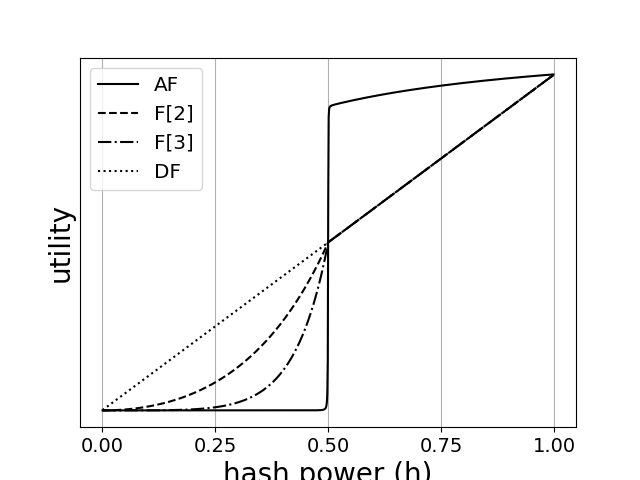
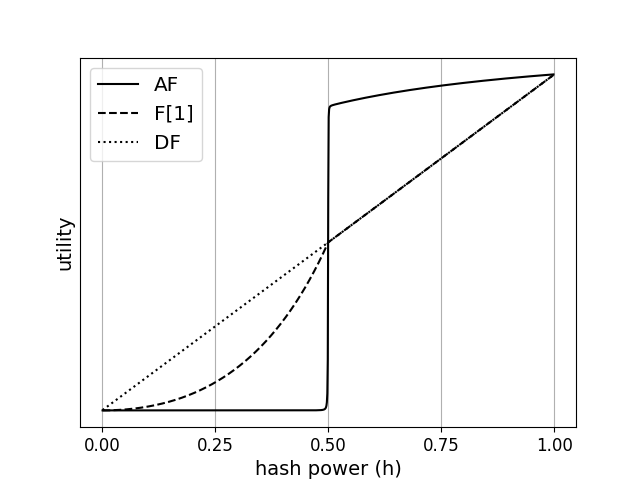
sec 4

diff --git a/AbstractDoc/WWW/dec_payoff.tex b/AbstractDoc/WWW/dec_payoff.tex
@@ -480,50 +480,117 @@ To make it as realistic as possible, we compute $\alpha$ and $\beta$ as follows.
 a value of alpha that would divide the reward by half every 210.000 blocks. Solving  $\alpha^{210.000} = 1/2$ gives us a value of $\alpha = 0.9999967030$. For 
 $\beta$ we calculate the 10-minute rate that is equivalent to the US real interest rate in 2017, which amounts to 2.2077\%. This gives us a value of $\beta = 0.9999996156$. 
 
-Figure \ref{Fig-af-df-fo} shows the value of the utility for player one when both players use the default strategy (color) and when players behave according to $\baf$ (color). 
-The point where the two lines meet is $h = ZZZZ$, which shows that our model captures and confirms the folklore fact that it is profitable to fork with more than half the hash power. However, it is interesting to note that this is not exactly the case: one should be willing to fork even with a little less than half the hash power. 
+Figure \ref{fig-af-df-fo} shows the value of the utility for player $1$ when using strategies $\af$, $\pf{i}$ or $\df$, and player $0$ always using $\df$. The point where the utility for 
+$\af$ and $\df$ meet is $h = 0.4996$ which means that player $1$ should use $\af$ as soon as she controls more than this proportion of the hash power. This confirms the 
+folklore fact that is profitable to fork with more than half the hash power. However, it is interesting to note that this is not exactly the case: one should be willing to fork even with a little less than half the hash power. This has been noted before in e.g. \cite{}.
 
+\begin{figure}
+  \centering
+    \includegraphics[width=0.46\textwidth]{plots/test_AF.png}
+    \label{fig-af-df-fo}
+    \caption{sdsd}
+\end{figure}
 
-\medskip
+\smallskip
 \noindent
-\textbf{Forking for a fixed number of times}. The other question we answer in this section is regarding the number of times one should be willing to fork. 
-This means analysing the family $F^1, F^2, \dots$ of strategies for player one, where $F^i$ dictates to follow $\af$ until the $i$-th fork is completed (and won), and then 
-switching to $\df_1$. 
+\textbf{Forking for a fixed number of times}. Looking at Figure \ref{fig-af-df-fo} again, we see that the utility when using $\pf{1}$ is directly in between the line for $\af$ and $\df$. 
+This utility was calculated using a similar strategy of that in the proof of Theorem \ref{thm:always_fork}.. 
+From the figure one can infer that, assuming $\af$ yields more utility to player $1$ than $\df$, then player $1$ should not use $\pf{1}$ but rather keep on forking, as 
+the utility for $\af$ is always above than the utility for $\pf{i}$. Can we say the same for other similar strategies? 
+Even though we can compute the utility of using any of the strategies $\pf{i}$, we cannot directly compare an infinite number of strategies. Instead, we prove the following general result. 
+\begin{proposition}
+Assume that $u_1(\bdf) \leq u_1(\baf)$. Then for all $i > 0$ we have that (1) $u_1((\df_0,\pf{i})) \leq u_1((\df_0,\pf{i+1}))$, and (2) $u_1((\df_0,\pf{i})) \leq u_1(\af))$.
+\end{proposition}
 
-Using a similar strategy as we did for $\af$, we can calculate the utility for player one under each of the strategies $(\df_0,F^i)$. However, if one now looks at the (color) line 
-of Figure \ref{Fig-af-df-fo}, one sees there is no need to do this as all of these are subsumed by $\af$: if $\af$ is actually better than default, then the more we fork the more utility we gain, and on the other hand, 
-is $\af$ is worse than default, then  performing less forks is always the better alternative. 
-
-It turns out we can capture this behaviour in a slightly more general way, as long as the strategies involve some repetitive behaviour. 
-\juan{Etiennes Result!!!} 
-
+Note that this result does not rule out the possibility that, for some amount of hash power, playing some $\pf{i}$ would turn out better than $\df$, but $\af$ would not. We know 
+this is not the case for $i = 1$, and we can also prove it for $i > 1$, albeit at the cost of much more powerful machinery that we do not have the space to introduce. 
+However, in the following section we do show that there are actually strategies leading to forks with less hash power. 
 
 \subsection{Giving up for more utility}. 
 
-We have seen that one should start forking with a little les than half the hash power, and that once forking becomes profitable then one should do it all the time. However, these results involve somewhat basic strategies: either we fork or we don't fork, and there is nothing our opponent can do to prevent that. 
-
-But what if we study more complex strategies? Is there a strategy that makes forking profitable with less hashpower than the needed for $\af$? 
-It turns out this is the case, we can start forking with a little less hashpower, as long as we are willing to give up the though fights. 
+By adding a little more flexibility to the strategy of always forking we can identify strategies that make forking profitable with much less hash power. 
 
 The families of strategies that we study in this section involve two parameters. First, one parameter $\ell$ that mandates the maximum length of the fight we are willing to put up 
 after forking, and one parameter $k$ that regulate how far back do I put my block when confronted with a chain of blocks I don't own. We denote these strategies by 
 $\gup_\ell^k$. Both parameters can be seen as a refinement of the way $\af$ works, and indeed $\af$ would be equivalent to the strategy $\gup_\infty^\infty$ where 
 player $1$ is willing to keep fights of any length and to fork at the beginning of any chain of blocks she does not own.  
 
+\begin{figure}
+\begin{center}
+\begin{tikzpicture}[->,>=stealth',auto,thick, scale = 0.61,state/.style={circle,inner sep=2pt}]
+
+    % The graph
+	\node [state] at (-10.5,0) (aR) {$\varepsilon$};
+	\node [state] at (-9,0) (a0) {$0$};
+	\node [state] at (-7.5,0) (a00) {$0$};
+	\node [state] at (-6,0) (a000) {$0$};
+	\node [state] at (-9,-1.5) (aAF) {$\af$};
+	\node [state] at (-7.5,-1.5) (aG) {$\gup_4^2$};
+	\node [state] at (-12,-0.75) {(a)};
+
+	% Graph edges
+	\path[->]
+	(aR) edge (a0)
+	(a0) edge (a00)
+	(a00) edge (a000);
+  	
+	\path[->,dashed]
+	(aR) edge (aAF)
+	(a0) edge (aG);
+	
+    % The graph
+	\node [state] at (-10.5,-3) (bR) {$\varepsilon$};
+	\node [state] at (-9,-3) (b0) {$0$};
+	\node [state] at (-7.5,-3) (b00) {$00$};
+	\node [state] at (-6,-3) (b000) {$000$};
+	\node [state] at (-4,-3) (b0000) {$0000$};
+	\node [state] at (-9,-4.5) (b1) {$1$};
+	\node [state] at (-7.5,-4.5) (b11) {$11$};
+	\node [state] at (-5.5,-4.5) (bAF) {$\af$};
+	\node [state] at (-1.5,-3) (bG) {$\gup_4^2$};
+	\node [state] at (-12,-3.75) {(b)};
+
+	% Graph edges
+	\path[->]
+	(bR) edge (b0)
+	(bR) edge (b1)
+	(b1) edge (b11)
+	(b0) edge (b00)
+	(b00) edge (b000)
+	(b000) edge (b0000);
+  	
+	\path[->,dashed]
+	(b11) edge (bAF)
+	(b0000) edge (bG);
+	
+
+\end{tikzpicture} 
+\end{center}
+
+\caption{blah}
+\label{fig-gup}
+\end{figure}
+
 \begin{example}
 Let us consider how $\gup_4^2$ would be different from always fork. First there is the issue of where to fork. Since $k = 2$, both strategies behave the same 
-for chains of cero, one or two blocks owned by player $0$. The difference is when facing a chain of 3 unowned new blocks in the blockchain, as in Figure \ref{}. 
+for chains of cero, one or two blocks owned by player $0$. The difference is when facing a chain of 3 unowned new blocks in the blockchain, as in Figure \ref{fig-gup}. 
 In this case, $\af$ would try to fork from her own block, but $\gup_4^2$ would fork instead on the dotted line (i.e., the $k$-th unowned block).
-Next is the give-up time. Normally, $\af$ is willing to fight forks forever, and for example, the move for state $q'$ in Figure \ref{} would still be to mine upon 
-her own block $1$. On the other hand $\gup_4^2$ has already seen $4$ blocks from the start of the fork, so with this strategy player $1$ instead gives up and 
-tries to mine upon the last block of player $0$, reinitiating her set of strategies as if this last block where the genesis block. 
+Next is the give-up time. Normally, $\af$ is willing to fight forks forever, and for example, the move for state $q'$ in Figure \ref{fig-gup} would still be to mine upon 
+her own block $11$. On the other hand $\gup_4^2$ has already seen $4$ blocks from the start of the fork, so with this strategy player $1$ instead gives up and 
+tries to mine upon $0000$, reinitiating her set of strategies as if this last block where the genesis block. 
 \end{example}
 
-To compute the closed form for $\gup_\ell^k$ we need a more involved combinatorial argument that requires counting dyck words were the difference between $0$'s and $1$'s can now be any constant, and with a bound on the maximum amount of $0$s. Let $\bgup^k_\ell$ denote the pair $(\df_0,\gup_\ell^k)$. Together with the recurrence argument of the proof of Theorem \ref{thm:always_fork}, we obtain: 
+To compute the closed form for $\gup_\ell^k$ we need a more involved combinatorial argument that requires counting dyck words were the difference between $0$'s and $1$'s can now be any constant, and with a bound on the maximum amount of $0$s. Let $\bgup^k_\ell$ denote the pair $(\df_0,\gup_\ell^k)$. Together with the recurrence argument used in the proof of Theorem \ref{thm:always_fork}, we obtain: 
 
 \begin{theorem}
-For each pair of integers $\ell$ and $k$, the utility $u_1(\bgup^k_\ell \mid \epsilon)$ is computable, and has a closed expression of the form $u_1(\bgup^k_\ell \mid \epsilon) = \frac{\varphi}{1-\Gamma}$, where $\varphi$ and $\Gamma$ depend on $\alpha$, $\beta$, $h$, $\ell$ and $k$. 
+Fix a pair of integers $\ell$ and $k$. Then the utility $u_1(\bgup^k_\ell)$ has a closed expression of the form $u_1(\bgup^k_\ell) = \frac{\varphi}{1-\Gamma}$, where $\varphi$ and $\Gamma$ are polynomials depending on $\alpha$, $\beta$ and $h$. 
 \end{theorem}
+
+In other words, given specific $k$ and $\ell$, we can still compute the utility of these strategies. We use this theorem to analyse these strategies, plotting them as we did before, 
+for $\alpha = 0.9999967030$ and $\beta = 0.9999996156$. Figure \ref{fig-plot-gup-fixwindow} gives us an interesting view of the advantages of this framework. For readability, we have 
+shaded the areas in which a certain strategy is better for player $1$ when player $0$ uses $\df$. Surprisingly, 
+
+
 
 This result gives us the possibility to mimic the plot we had for $\af$, with the same values of $\alpha$ and $\beta$s, but now for different values of $\ell$ and $k$. The most interesting results are when 
 fixing $k$ and varying $\ell$, as they give us what we are looking for. As we see in Figure \ref{}, for $h = X$ the strategy $\gup_X^Y$ (color) gives higher utility 

diff --git a/AbstractDoc/WWW/scripts/fork_twice.py b/AbstractDoc/WWW/scripts/fork_twice.py
@@ -61,21 +61,21 @@ markers = [".",",","o","v","^","<",">","s","P","+","X"]
 # plot the utlities
 ax.plot(h,always_fork,color='black',linestyle=linestyles[0])
 ax.plot(h,fork_once,color='black',linestyle=linestyles[1])
-ax.plot(h,fork_trice,color='black',linestyle=linestyles[2])
+#ax.plot(h,fork_trice,color='black',linestyle=linestyles[2])
 ax.plot(h,default,color='black',linestyle=linestyles[3])
 
 ax.set(xlabel='hash power (h)', ylabel='utility')
 ax.grid()
 
-ax.legend(['AF','F[2]','F[3]','DF'],fontsize = 'x-large')
+ax.legend(['AF','F[1]','DF'],fontsize = 'x-large')
 
 ax.set_xticks([0,0.25,0.5,0.75,1])
 ax.set_yticks([])
 
 for item in ax.get_xticklabels():
-	item.set_fontsize(14)
-ax.xaxis.label.set_fontsize(20)
-ax.yaxis.label.set_fontsize(20)
+	item.set_fontsize(12)
+ax.xaxis.label.set_fontsize(14)
+ax.yaxis.label.set_fontsize(14)
 
 
 fig.savefig("test_AF.png")
